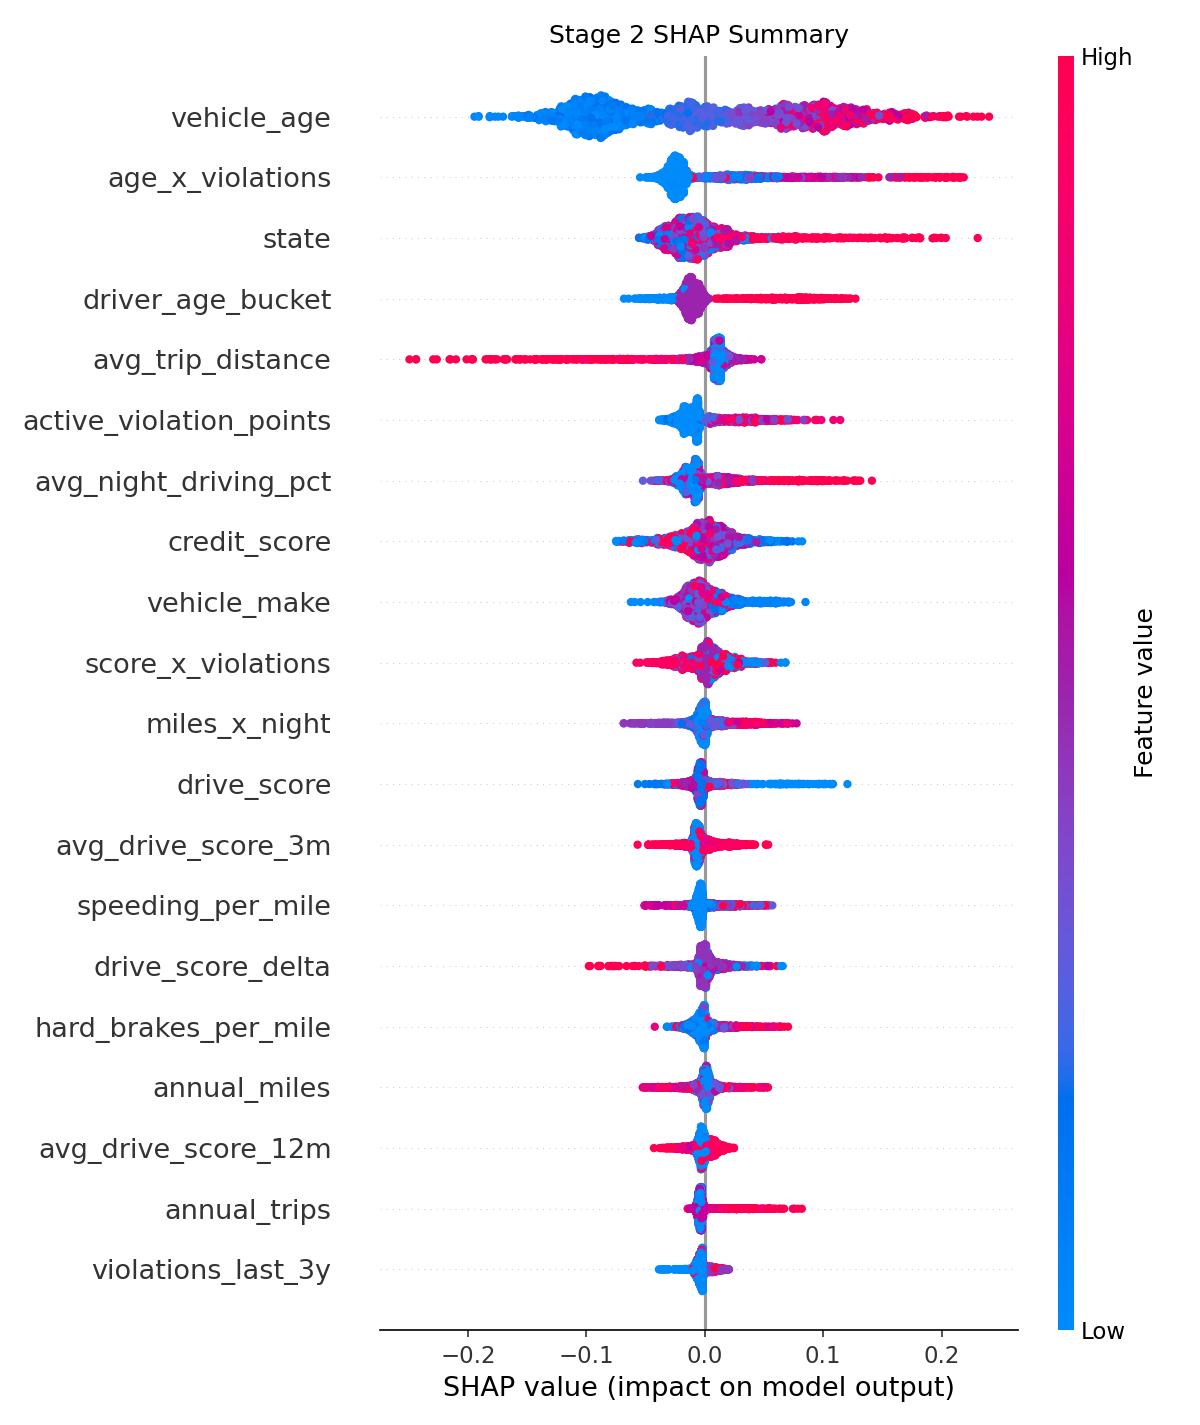
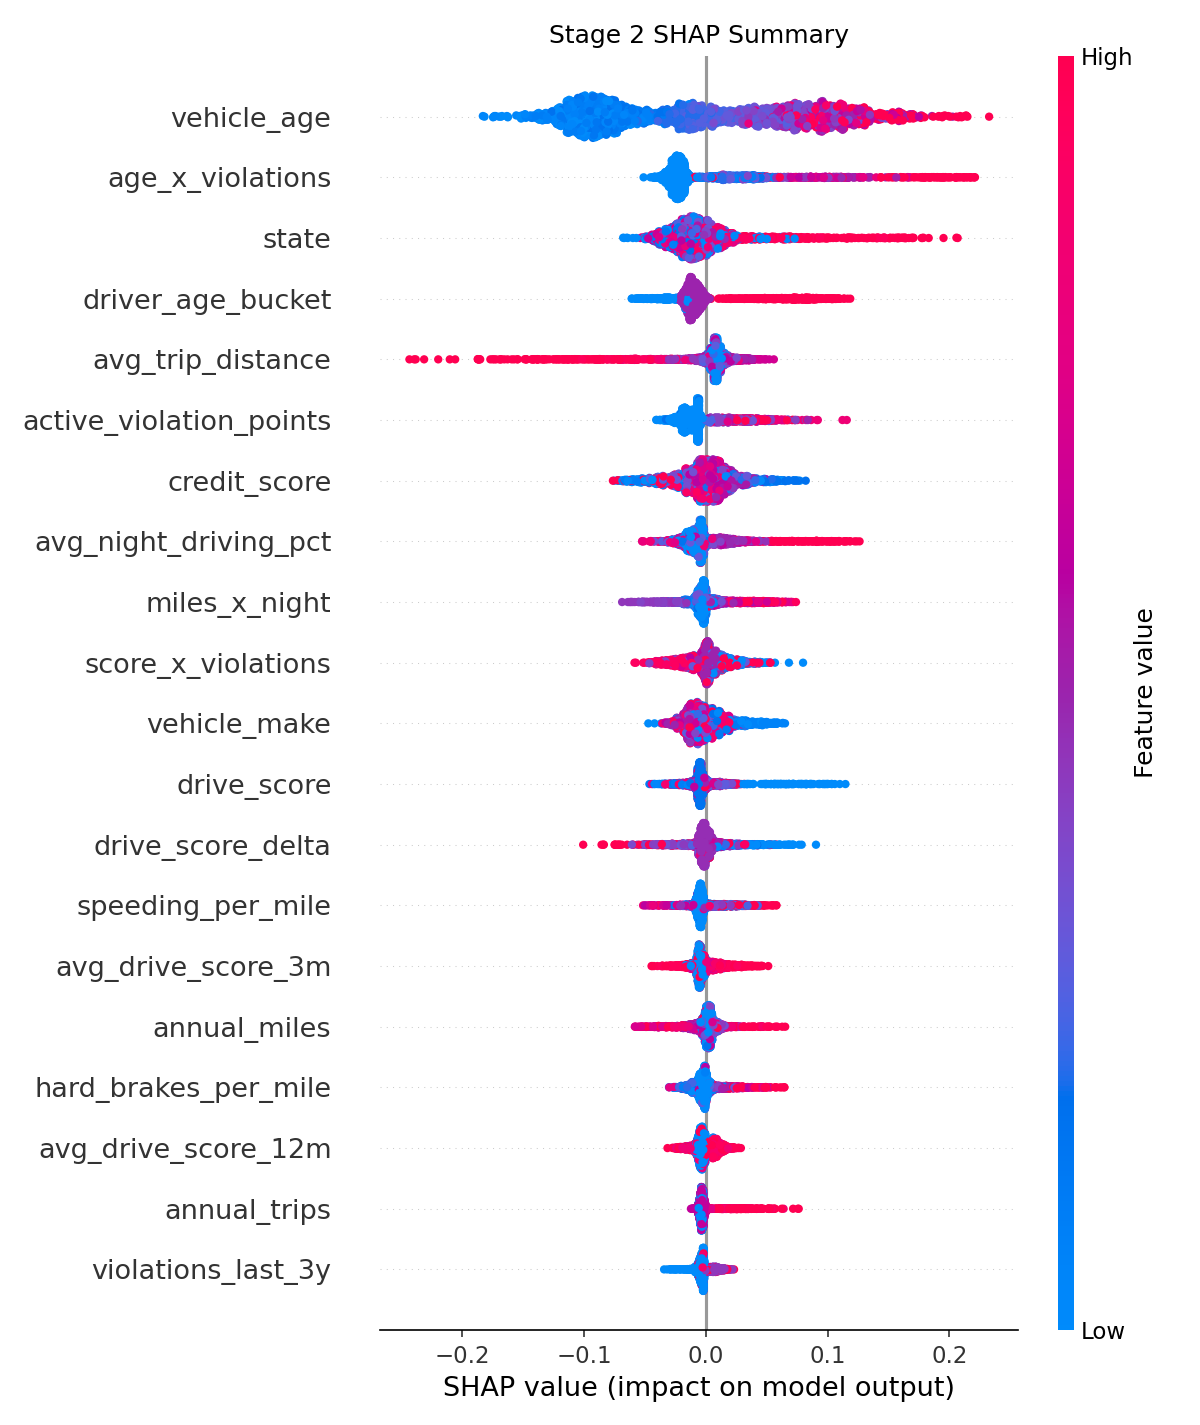
Risk scoring model tuning and data quality fixes

diff --git a/ai/pipelines/ingestion/feature_engineer.py b/ai/pipelines/ingestion/feature_engineer.py
@@ -354,9 +354,23 @@ def risk_features(engine=None) -> pd.DataFrame:
             END                                                         AS driver_age_bucket,
             COALESCE(cust.credit_score, 650)                            AS credit_score,
 
-            -- Policy stability
-            CASE WHEN p.status IN ('lapsed','cancelled') THEN 1 ELSE 0 END
-                                                                        AS has_lapse,
+            -- Policy stability: prior policy lapse/cancellation before this term
+            (
+                SELECT MAX(prev.expiry_date)
+                FROM policies prev
+                WHERE prev.customer_id = p.customer_id
+                  AND prev.policy_number != p.policy_number
+                  AND prev.status IN ('lapsed','cancelled')
+                  AND prev.expiry_date < p.effective_date
+            ) AS lapse_date,
+            CASE WHEN (
+                SELECT MAX(prev.expiry_date)
+                FROM policies prev
+                WHERE prev.customer_id = p.customer_id
+                  AND prev.policy_number != p.policy_number
+                  AND prev.status IN ('lapsed','cancelled')
+                  AND prev.expiry_date < p.effective_date
+            ) IS NOT NULL THEN 1 ELSE 0 END AS has_lapse,
 
             -- Telematics behavioral features
             COALESCE(p.drive_score, 50)                                 AS drive_score,

diff --git a/ai/models/risk_scoring/model.py b/ai/models/risk_scoring/model.py
@@ -70,6 +70,7 @@ EXCLUDE_COLS_BASE = {
     "log_claim_amount",    # Stage 2 target (transformed)
     "claim_amount_capped", # intermediate
     "effective_date",      # used for temporal gate only
+    "lapse_date",          # used for temporal gate only
     "total_claims",        # exclude to prevent leakage
     "claims_last_12m",     # exclude to prevent leakage
     "claims_last_90d",     # exclude to prevent leakage
@@ -474,10 +475,9 @@ def train(df: pd.DataFrame) -> dict:
     y2_log = df_pos["log_claim_amount"]
     y2_raw = df_pos["total_claim_amount"]
 
-    X2_tr, X2_te, y2_tr, y2_te_log = train_test_split(
-        X2, y2_log, test_size=0.2, random_state=42
+    X2_tr, X2_te, y2_tr, y2_te_log, _, y2_te_raw = train_test_split(
+        X2, y2_log, y2_raw, test_size=0.2, random_state=42
     )
-    _, y2_te_raw = train_test_split(y2_raw, test_size=0.2, random_state=42)
 
     stage2, mae, shap_stage2 = _build_stage2(X2_tr, y2_tr, X2_te, y2_te_raw, severity_cap)
 
@@ -733,7 +733,7 @@ def main() -> None:
     else:
         df["predicted_score"] = 50.0
 
-    df["label"] = (df["predicted_score"] >= TIER_THRESHOLDS["medium"]).astype(int)
+    df["label"] = (df["total_claim_amount"] > 0).astype(int)
     run_audit(df, model_name="risk", score_col="predicted_score", label_col="label")
 
 